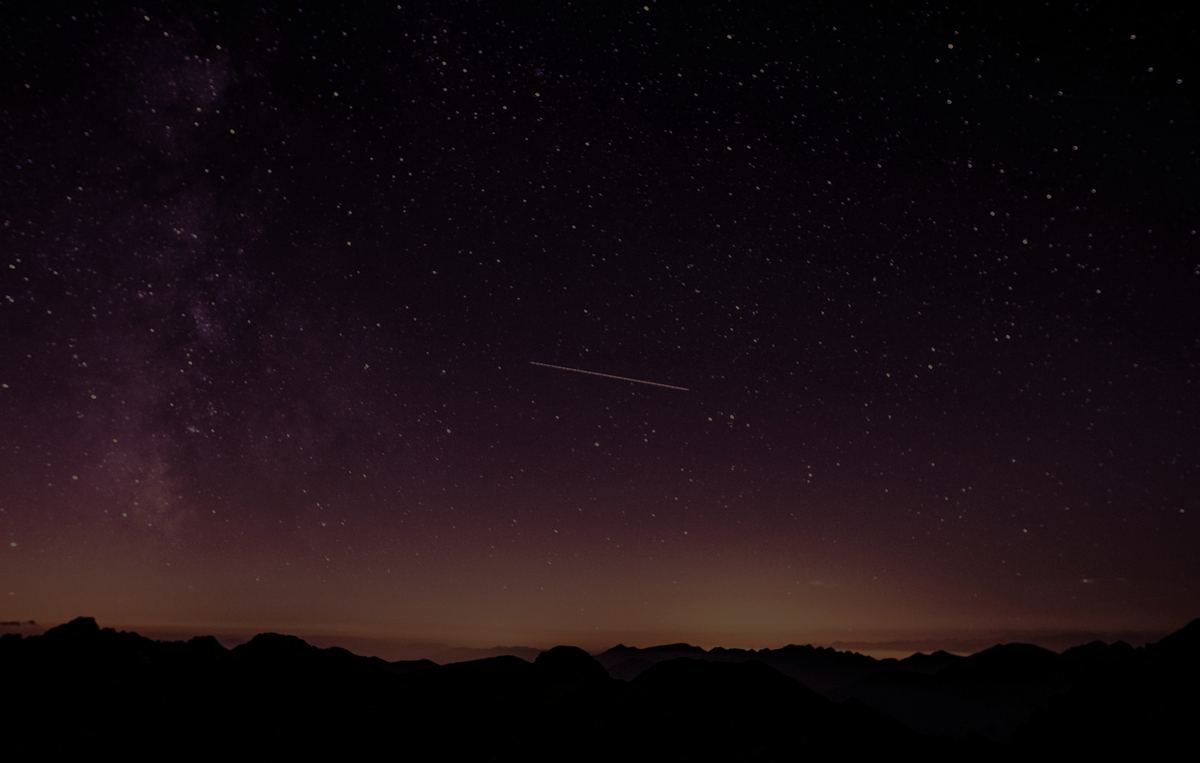
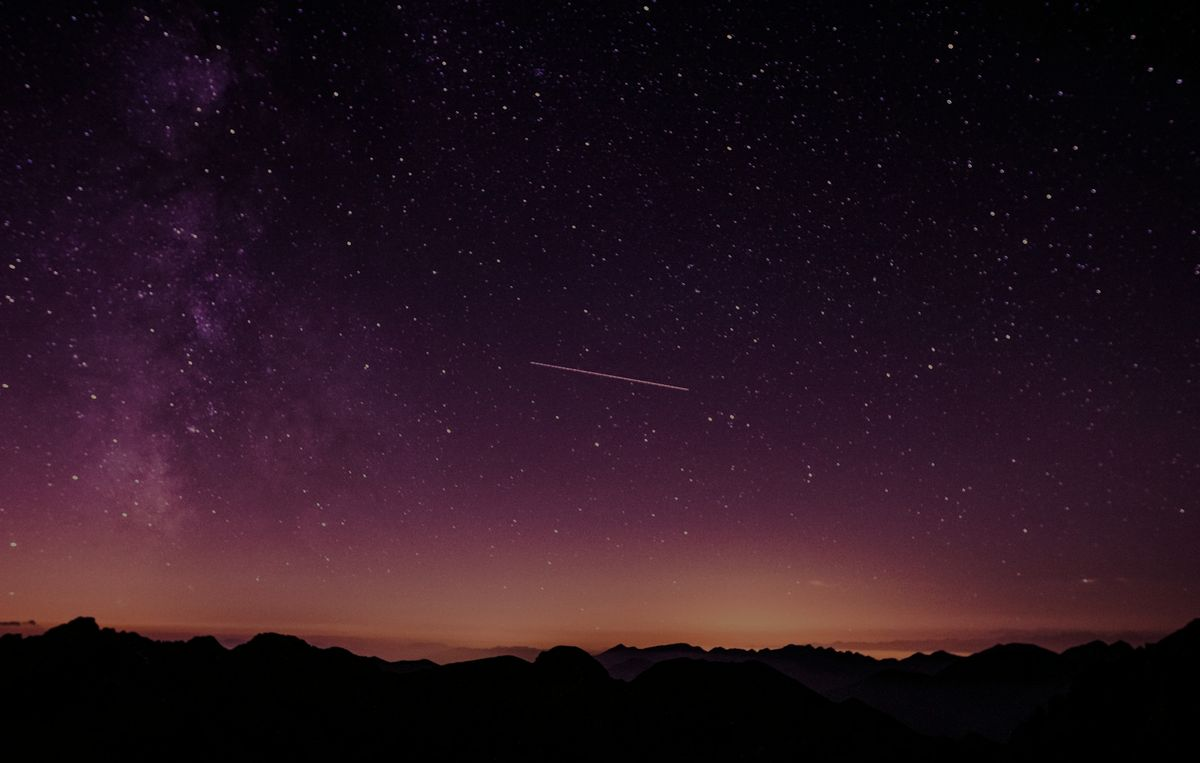
Add files via upload
Fix bg

diff --git a/styles.css b/styles.css
@@ -31,17 +31,17 @@ html {
 
 body {
   font-family: "Segoe UI", Roboto, "Helvetica Neue", Arial, sans-serif;
-  background-color: var(--bg);
+  background-color: #050403;
   background-image:
     linear-gradient(
       180deg,
-      rgba(8, 6, 4, 0.82) 0%,
-      rgba(10, 8, 6, 0.88) 40%,
-      rgba(6, 5, 4, 0.94) 100%
+      rgba(8, 6, 4, 0.45) 0%,
+      rgba(10, 8, 6, 0.55) 50%,
+      rgba(5, 4, 3, 0.7) 100%
     ),
     url("bg.jpg");
   background-size: cover;
-  background-position: center top;
+  background-position: center center;
   background-attachment: fixed;
   background-repeat: no-repeat;
   color: var(--text);
@@ -146,13 +146,13 @@ h1 {
 
 /* Cards */
 .stats-card {
-  background: rgba(20, 18, 16, 0.92);
+  background: rgba(16, 14, 12, 0.88);
   border: 1px solid var(--border-gold);
   border-radius: var(--radius);
   padding: 1.25rem 1.5rem;
   text-align: center;
   box-shadow: var(--shadow);
-  backdrop-filter: blur(6px);
+  backdrop-filter: blur(8px);
 }
 
 .stat-label {
@@ -313,12 +313,12 @@ h1 {
 
 /* Question card */
 .question-card {
-  background: rgba(20, 18, 16, 0.92);
+  background: rgba(16, 14, 12, 0.88);
   border: 1px solid var(--border-gold);
   border-radius: var(--radius);
   padding: 1.5rem 1.25rem;
   box-shadow: var(--shadow);
-  backdrop-filter: blur(6px);
+  backdrop-filter: blur(8px);
   display: flex;
   flex-direction: column;
   gap: 1.25rem;
